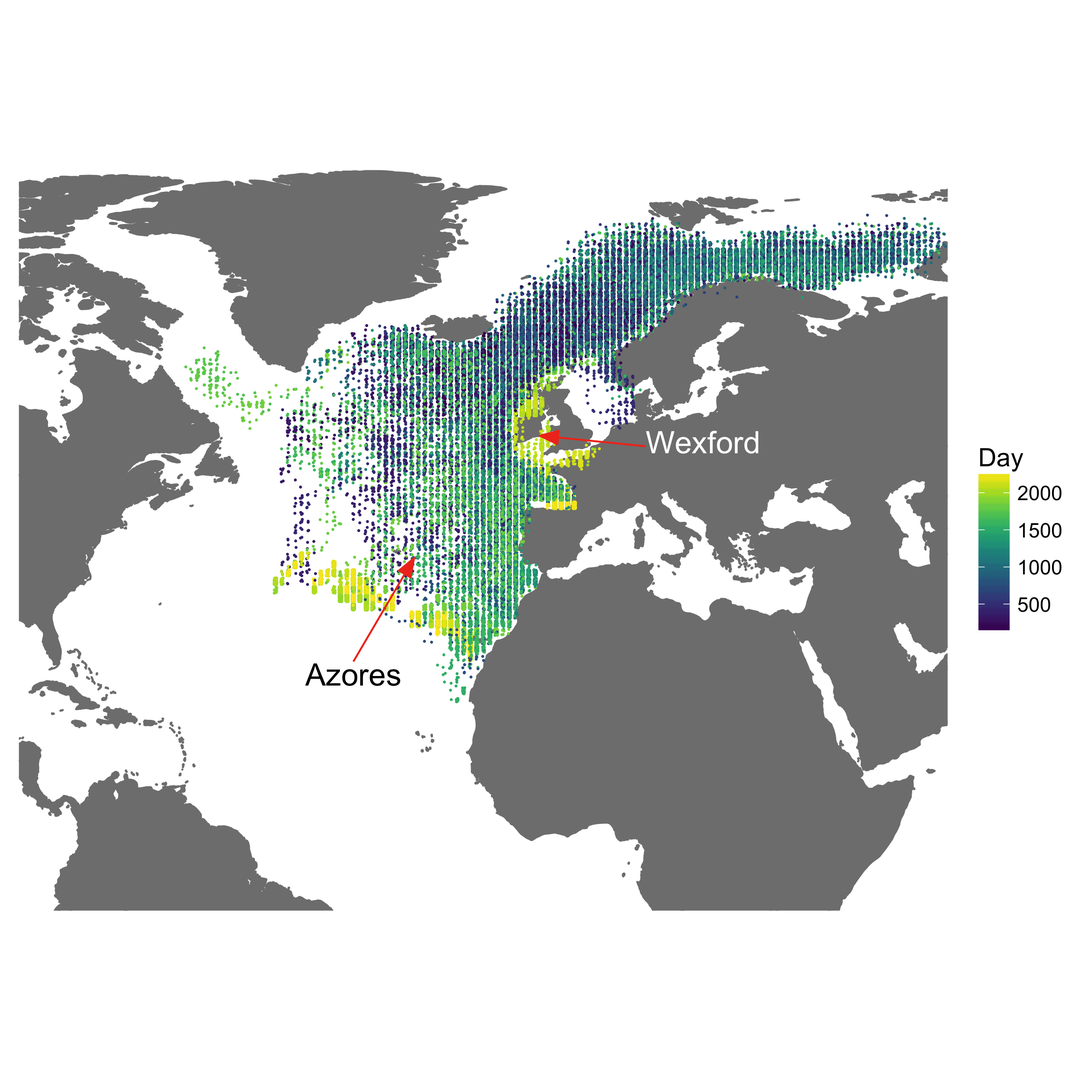
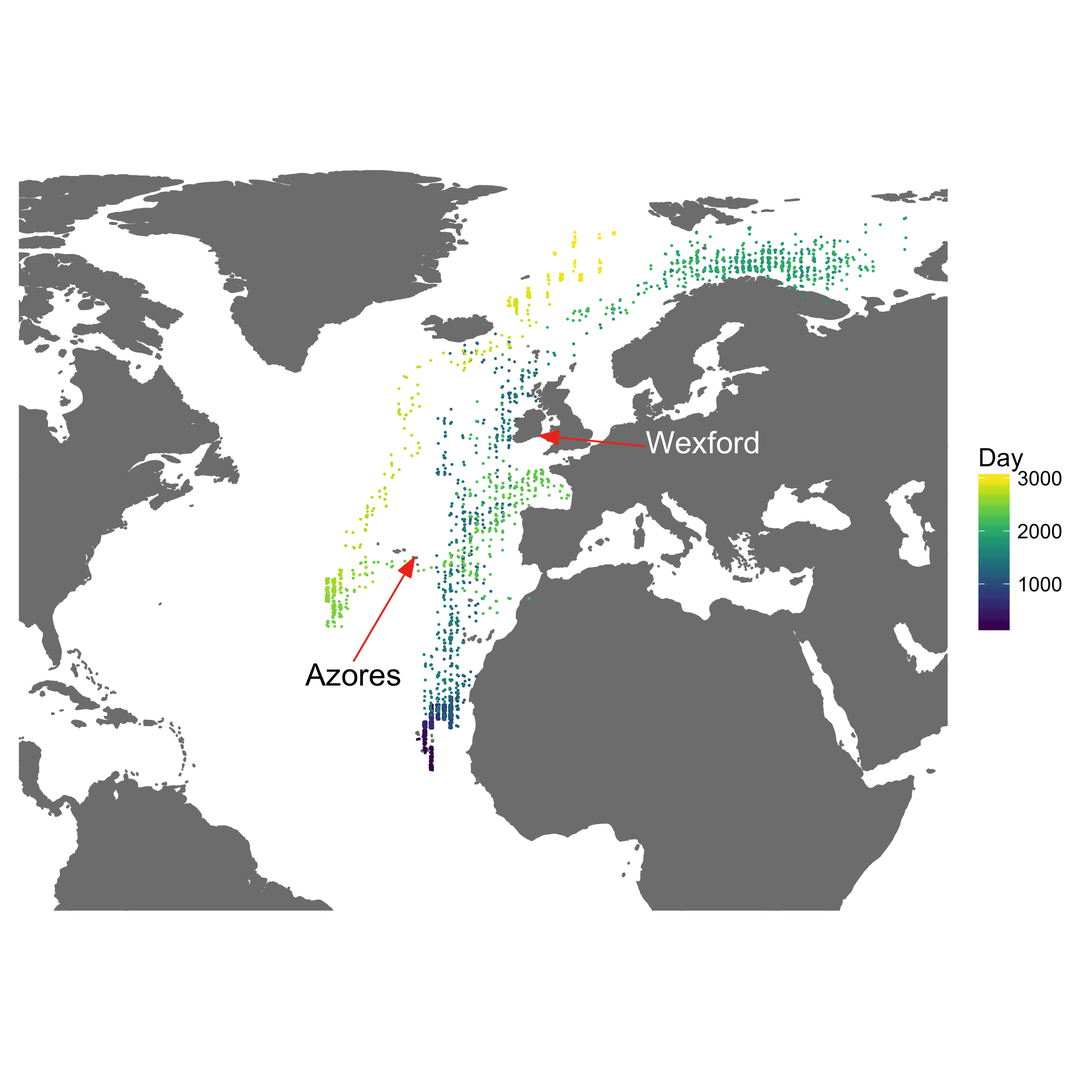
Edits to manuscript and cover letter

Changed region(s): [[0.2497, 0.1873, 0.8739, 0.7179], [0.9052, 0.437, 0.9988, 0.5618], [0.1873, 0.3121, 0.2497, 0.3745]]

diff --git a/manuscript/revision/blue-whale-ms-v2.tex b/manuscript/revision/blue-whale-ms-v2.tex
@@ -62,10 +62,10 @@
 % implications - 2-3 sentences. Results in context, how has the paper moved the field forward
 
 \raggedright
-
+% Need to edit
 \paragraph{Understanding animal movements is crucial for effective conservation, especially as species ranges shift due to climate change\cite{runge2014conserving,robinson2009travelling}. 
 Animal tissues housed in museum collections provide biochemical records of behaviour that can be used to reconstruct individual-level movements over long timescales and under historical climatic and ecological conditions\cite{newsome2010using}. 
-Here we combine stable isotope analyses of baleen with novel agent-based simulation models, to reconstruct the movements of an iconic blue whale (\textit{Balaenoptera musculus}) that stranded off Ireland in 1891 and is now on display at the Natural History Museum, London (NHM). 
+Here we combine stable isotope analyses of baleen with novel agent-based simulation models, to reconstruct the movements of an iconic blue whale (\textit{Balaenoptera musculus}) that stranded off Ireland in 1891 and is now on display at the Natural History Museum, London. 
 We identify two distinct phases in the whale's behaviour: repeated annual north-south migrations in sub-Arctic waters, and residency in subtropical waters. 
 Subtropical residency is associated with isotopic signatures consistent with pregnancy and lactation in the year before the whale's death. 
 These results supply the first quantitative multi-year records of historical migrations in individual blue whales, and suggest that blue whale residency and movement patterns in the North Atlantic have remained similar for hundreds of years, despite changing human pressures in the region. 
@@ -85,9 +85,10 @@ Despite blue whale hunting being banned for over 50 years, blue whales are still
 Conservation efforts are hampered by the scarcity of detailed data on the distribution, behaviour and ecology of blue whales, both for historical and present-day populations. 
 Current methods for tracking large whales include satellite tracking, radio tagging, aerial photography, passive acoustic monitoring, and sightings records\cite{borger15,mcdonald2006biogeographic,bailey2009behavioural,mate2007evolution,silva2013north}. 
 These methods are adding vital behavioural data to our understanding of whale movements, however, they are often expensive, limited to short-term studies on few individuals\cite{bailey2009behavioural,best2015tag,mate2007evolution}, and may influence whale behaviour\cite{walker2012review}. 
-Intrinsic biogeochemical tags provide an alternative technique, where the chemical compositions of animal tissues are compared to spatially referenced models of chemical variation across the species' range\cite{hobson1999tracing,hobson2008tracking}). 
-Stable isotope-based geolocation has been used to interpret whale ecology \cite{hobson1998stable,ryan2013stable,eisenmann2016isotopic}. 
-Here we apply this method to baleen from the NHM's blue whale.
+Stable isotope analyses provide an alternative technique\cite{west2006stable}. 
+We can use the isotopic compositions of whale tissues to reconstruct their movement patterns, by comparing them to spatially referenced models of isotopic variation across the species' range\cite{hobson1999tracing,hobson2008tracking,eisenmann2016isotopic}. 
+%line 57,
+These methods can be applied to large numbers of individuals, but as proof of concept, here we apply this method to baleen from the Natural History Museum (NHM) London's blue whale `Hope'.
 
 %Points here about movement patterns, interactions with human use of oceans, tourism etc
 % Build on lack of information about movements before ,modern use of Atlantic, and lack of information about juvenile behaviour.
@@ -95,11 +96,15 @@ Here we apply this method to baleen from the NHM's blue whale.
 
  
 Baleen is formed of plates of keratin and is used by mysticete whales to filter feed. 
-It is ideal for stable isotope studies because keratin grows continuously through an individual's life, and once laid down it is metabolically inert\cite{best1996stable}. 
-
+It is ideal for stable isotope studies because keratin grows continuously through an individual's life (although it is worn away at the tips over time, so rarely records an individual's entire lifespan), and once laid down it is metabolically inert\cite{best1996stable}. 
+Blue whales feed mainly on krill (Euphausiacea), small crustaceans that feed on phytoplankton.
+Thus the stable isotope compositions of keratin at a given point in the baleen will reflect the stable isotope compositions of the krill it was feeding on around two weeks prior to that time point (two weeks is required for the carbon and nitrogen to be assimilated and converted into tissues). %REF???
+Baleen stable isotopes have long been used in this way /.... % finish
 %Refs to support long history of inferring movement from baleen isotopes.
 
-We sampled keratin from the blue whale's baleen plate at 1cm intervals, perpendicular to the direction of growth, and used continuous-flow isotope ratio mass spectrometry to determine the isotopic compositions of carbon and nitrogen (expressed as $\delta^{13}$C and $\delta^{15}$N values). 
+We sampled keratin from the blue whale's baleen plate at 1cm intervals for 100cm, perpendicular to the direction of growth, and used continuous-flow isotope ratio mass spectrometry to determine the isotopic compositions of carbon and nitrogen. 
+Note that carbon and nitrogen isotopes are expressed as $\delta^{13}$C and $\delta^{15}$N values, i.e. relative to a standard and as ratios of the rare ($^{13}$C, $^{15}$N) to common ($^{12}$C, $^{14}$N) isotope\cite{west2006stable}.
+
 Given the date of stranding (25th March 1891), and estimated baleen growth rates of 13.5cm $y^{-1}$ (see Supplementary Methods), we reconstructed a timeline for $\delta^{13}$C and $\delta^{15}$N fluctuations in the baleen over the seven full years of the whale's life (early 1884 - spring 1891). 
 The $\delta^{13}$C and $\delta^{15}$N profiles show two distinct phases in the whale's behaviour. 
 Throughout the record, $\delta^{15}$N values record regular cyclical fluctuations, with a mean spacing of 13.5cm, assumed to represent annual periodicity (see Supplementary Methods).  
@@ -114,12 +119,13 @@ The final three months of the record show a continued fall in $\delta^{13}$C val
 \begin{figure}
   \centering
   \includegraphics[width = \linewidth]{figures/Figure-1-raw-dC-dN-data.png}
-  \caption{Variation in $\delta^{13}$C (black circles, left y-axis) and $\delta^{15}$N (grey circles, right y-axis) longitudinally through the baleen plate (n = 77 samples from a single baleen plate for both isotopes) of the NHM blue whale exhibits strong annual periodicity and cross-correlation (Figs. S1 and S2) in both isotopes as well as a change in the mean and magnitude of the cycles during 1889 (approximately at sample 30cm). Approximate relationship to years assuming a growth rate of 13.5 cm y$^{-1}$ is shown on the upper x-axis, and year boundaries are indicated by vertical dotted grey lines.}
+  \caption{Variation in stable isotope values in the NHM blue whale, expressed as $\delta^{13}$C (black circles, left y-axis) and $\delta^{15}$N (grey circles, right y-axis). Samples were taken longitudinally through the baleen plate (n = XX samples from a single baleen plate for both isotopes) of the NHM blue whale exhibits strong annual periodicity and cross-correlation (Figs. S1 and S2) in both isotopes as well as a change in the mean and magnitude of the cycles during 1889 (approximately at sample 30cm). Approximate relationship to years assuming a growth rate of 13.5 cm y$^{-1}$ is shown on the upper x-axis, and year boundaries are indicated by vertical dotted grey lines.}
   \label{fig1}
 \end{figure}
 
+% Krill has a very similar isotopic composition to phytoplankton
 
-Relating marine animal tissue isotopic compositions to likely locations is complicated by both a lack of spatial reference values, and because the isotopic composition of phytoplankton at the base of marine food webs varies in both space and time. 
+Relating marine animal tissue isotopic compositions to likely locations is complicated by both a lack of spatial reference values, and because the isotopic composition of phytoplankton at the base of marine food webs varies in both space and time. %line 82
 We approach these problems using newly developed, temporally dynamic models of $\delta^{13}$C values in the global ocean\cite{magozzi2017using} (Fig. S3), coupled to an agent-based model of whale movements (see Supplementary Methods; Table S1; Fig. S5) to simulate time series of $\delta^{13}$C values expected under differing movement behaviours and in differing parts of the known geographic range of blue whales. 
 We then compare simulated profiles (Figs. \ref{fig2}, \ref{fig3} and Fig. S4) with the measured isotopic profile of the blue whale's baleen (Fig. \ref{fig1}) to identify the most likely movement history.
 We assume continued ingestion of new protein throughout the year. 
@@ -158,6 +164,7 @@ Best fitting models predict juvenile residency in the Cape Verde region in behav
 Behavioural phase 2 is best simulated by seasonal migrations between summer foraging in northern areas in the Norwegian Sea/Barents Sea/Iceland region, and winter foraging in a broad region between the UK and sub-tropical waters. 
 Best fitting models in general predicted a greater latitudinal foraging range, and foraging in more northerly waters (Supplementary materials Fig. S7 [boxplots and kernel density plots]).
 
+line 112 - 122 para
 The last 500 days of the whale's life are difficult to simulate. 
 Beginning in the winter of 1889/1890, the observed $\delta^{13}$C profile is relatively depleted, and remains constant for approximately six months, before increasing rapidly in the winter of 1890/1891. 
 Depleted $\delta^{13}$C values are found in northern waters that show large temporal fluctuations in $\delta^{13}$Cplk values [fig SX residency plot], and the observed values cannot be simulated purely from movements within the known geographic range.
@@ -174,19 +181,20 @@ The proposed timescale of pregnancy around early spring 1889, birth in spring 18
 %Kernel density plot gives a visualization of proportional amount of time we infer the whale might have spent in each region
  
 Conventional wisdom suggests that baleen whales migrate each year from feeding grounds near the poles in summer, to overwintering and breeding grounds nearer the equator\cite{corkeron1999baleen,lockyer1981migration}. 
-However, a growing body of evidence suggests that not all whales migrate to subtropical waters each year, with some remaining at high latitudes year round\cite{mcdonald2006biogeographic}. 
+However, a growing body of evidence suggests that not all whales migrate to subtropical waters each year, with some remaining at high latitudes year round\cite{mcdonald2006biogeographic}. %line 127
 Our results support this conclusion. 
-Interestingly, there is still a resident population of blue whales in the regions indicated by our model, and females still breed in the subtropical waters near the Azores\cite{reilly2008balaenoptera}. 
+Interestingly, there is still a resident%line 128
+ population of blue whales in the regions indicated by our model, and females still breed in the subtropical waters near the Azores\cite{reilly2008balaenoptera}. 
 Whaling was an intense pressure for blue whales during the period we are analysing. 
 Before whaling in the North Atlantic began in 1868\cite{reilly2008balaenoptera}, there were 10,000-15,000 blue whales in the region\cite{sigurjonsson1995life}. 
 In the early 20th century, fisheries moved outside the area because stocks were so depleted\cite{reilly2008balaenoptera}; during this period over 12,000 blue whales were landed\cite{sigurjonsson1995life}. 
 The NHM blue whale thus represents an individual from a species at the brink of extinction.
-Our data suggest that the spatial ecology of blue whales in the North Atlantic has remained similar for more than 100 years, despite dramatic changes in anthropogenic pressures.
+Our data suggest that the spatial ecology of blue whales in the North Atlantic has remained similar for more than 100 years, despite dramatic changes in anthropogenic pressures. % line 137 and 139
 
-This is the first quantitative evidence of historical individual-level movement behaviours in blue whales. 
+This is the first quantitative evidence of historical individual-level movement behaviours in blue whales. %line 140-141
 Our novel simulation modeling removes a long-standing limitation in stable isotope ecology, and can be applied to stable isotope records from any incrementally-grown tissue to estimate most likely individual movement behaviours over multiple years. 
 Such techniques can also be applied to extinct species behaviours and used to understand how populations were affected by past pressures such as hunting, and present-day pressures such as global change. 
-Finally, our results highlight that museums represent a vast, mostly untapped, source of individual-level spatial ecology information.
+Finally, our results highlight that museums represent a vast, mostly untapped, source of individual-level spatial ecology information. %line 147-149
 
 \section{Methods}
 %<3000 words

diff --git a/manuscript/revision/response.md b/manuscript/revision/response.md
@@ -1,4 +1,4 @@
-**RE: Nature submission 2017-06-07324A**
+# RE: Nature submission 2017-06-07324A
 
 Dear Editors,
 
@@ -6,8 +6,10 @@ Our paper was reviewed at Nature and was not accepted for publication. However, 
 
 We respond to their points below. To improve the clarity of this document we have included our responses to the referees comments in italics.
 
-**Important note to the referees**. During the revisions of this manuscript, which included substantial extra analysis, we discovered an error in our original results. Essentially, the baleen samples had been labelled in the reverse direction to what we expected. The values for all the stable isotope measures remain the same but the timeline is reversed (this occurred due to a misunderstanding with the masters student who ran to original mass spec analyses and subsequently finished her masters project and moved away). We regret this error, but these things happen, and we are relieved that we noticed the error before publication. Interestingly, when we added the extra data to the end of our time series, we find our overall results do not change from our previous manuscript. We communicated with Editor in Chief Patrick Goymer about whether it was still appropriate to cascade our reviews with the paper given this error, and he said this was fine as long as we made this very clear in our response letter. This note is to alert the reveiwers that the results graphs will look different to the original version, though our conclusions have not changed qualitatively.
+**Important note to the referees**. During the revisions of this manuscript, which included substantial extra analysis, we discovered an error in our original results. Essentially, the baleen samples had been labeled in the reverse direction to what we expected. The values for all the stable isotope measures remain the same but the timeline is reversed (this occurred due to a misunderstanding with the masters student who ran to original mass spec analyses and subsequently finished her masters project and moved away). We regret this error, but these things happen, and we are relieved that we noticed the error before publication. Interestingly, when we added the extra data to the end of our time series, we find our overall results do not change from our previous manuscript. We communicated with Editor in Chief Patrick Goymer about whether it was still appropriate to cascade our reviews with the paper given this error, and he said this was fine as long as we made this very clear in our response letter. This note is to alert the referees that the results graphs will look different to the original version, though our conclusions have not changed qualitatively.
 
+
+## Original referee comments
 
 ## Referee 1
 ### Key results, Originality and Significance
@@ -18,13 +20,22 @@ First: The authors used a mix between a temporal isoscape (measured POM over tim
 
 Second: the baleen isotope records themselves are interesting as there are very few blue whale baleen records published (this is the second one ever to my knowledge, and the first was also published this year). The isotopes also appear to show a mixture of behaviours, such as migration AND permanent residence in a single individual. Such mix of behaviour is rare in the literature, and still debated. Further, the residence appears consistent with pregnancy/lactation, which is even more uncommon in whale baleen literature as far as I know. For these reasons, I think the isotope records will be very interesting to other researchers in the field.
 
-*We thank the referee for their positive comments about our paper.*
+> We thank the referee for their positive comments about our paper.
 
 ### Data and Methodology: Validity
 
 I am satisfied with the SIA methods and results, but I have some slight comments. While I have no experience with modelling, I noted that there was no mention of isotopic fractionation in the model. As far as I know, blue whale feed on zooplankton and small fish, not directly on phytoplankton. If I am correct, the comparison of the baleen records to the modelled isotopes may be incorrect, as it should be affected by trophic shifts. I suppose it depends on whether the model was used for a direct pattern comparison, or if the values modelled and the baleen values were compared to each other. 
-Comparable literature in other species (seals, humans) appear to confirm the pregnancy interpretation, although I’m less convinced by the lactation signal as it seems too delayed in time. This could possibly be checked using hormones, although that is also a very novel field. See the following literature on baleen hormones: Hunt 2016 “Longitudinal progesterone profiles in baleen from female North Atlantic right whales (Eubalaena glacialis) match known calving history”; Hunt 2014 “Baleen hormones: a novel tool for retrospective assessment of stress and reproduction in bowhead whales (Balaena mysticetus)”. These are older samples (20 yrs or so) but not as old as this whale so may be loss of hormone signal over time.
+
+> The referee is correct 
+
+* CLIVE how are we dealing with this???
+
+Comparable literature in other species (seals, humans) appear to confirm the pregnancy interpretation, although I'm less convinced by the lactation signal as it seems too delayed in time. This could possibly be checked using hormones, although that is also a very novel field. See the following literature on baleen hormones: Hunt 2016 “Longitudinal progesterone profiles in baleen from female North Atlantic right whales (Eubalaena glacialis) match known calving history”; Hunt 2014 “Baleen hormones: a novel tool for retrospective assessment of stress and reproduction in bowhead whales (Balaena mysticetus)”. These are older samples (20 yrs or so) but not as old as this whale so may be loss of hormone signal over time.
 I strongly believe this will not prohibit publication, as the results are still very interesting. It is very possible that I am misreading the delay in lactation signal.
+
+> Measuring hormone levels in the baleen would be a great addition to this work. We have colleagues in the US who are planning to extract hormones from this baleen. Unfortunately these results have been delayed now for over a year due to US permitting issues (thanks Trump!) and the CITES status of blue whales. But we agree that this would be really interesting, if the hormone signals remain over time.
+
+* LACTATION SIGNAL - comments?
 
 ### Appropriate use of statistics:
 
@@ -32,36 +43,84 @@ The statistical analyses seem sound and appropriate, although the use of Fourier
 
 There are no error bars or replication of samples, but this is typical of stable isotopes.
 
+* Do we need a comment on this?
+
 ### Suggested improvements/ References:
 
-Some basic stable isotope knowledge, as well as blue whale feeding ecology should probably be mentioned (ie krill/fish feeding, no fasting) or trophic influence on isotopic signal compared to model POM values. Adding sentence on feeding ecology at beginning, and explaining in model why POM is a good proxy for zooplankton should be enough. For example: Line 65: a reference such as West et al, 2006 “Stable isotopes as one of Nature’s ecological records” relevant to SIA basics. Line 82: reference again with basic SIA shifts in marine food webs? Possibly McMahon et al, 2015 “Millennial Scale plankton regime shifts in the subtropical North Pacific Ocean”
+Some basic stable isotope knowledge, as well as blue whale feeding ecology should probably be mentioned (ie krill/fish feeding, no fasting) or trophic influence on isotopic signal compared to model POM values. Adding sentence on feeding ecology at beginning, and explaining in model why POM is a good proxy for zooplankton should be enough. For example: Line 65: a reference such as West et al, 2006 “Stable isotopes as one of Nature’s ecological records” relevant to SIA basics. Line 82: reference again with basic SIA shifts in marine food webs? Possibly McMahon et al, 2015 “Millennial Scale plankton regime shifts in the subtropical North Pacific Ocean”.
+
+> We have added this as suggested
+
+
+> 
+
+* Add it!
+
 The reported baleen growth rates fit the literature, but I believe it may be worth mentioning in Line 61 that baleen gets worn down over time, and that the records are not full life spans. 
+
+> We have clarified this in the text at line XXX as follows: "It is ideal for stable isotope studies because keratin grows continuously through an individual's life (although it is worn away at the tips over time, so rarely records an individual's entire lifespan), and once laid down it is metabolically inert."
+
 According to the model, d15N is relatively higher in the arctic during summer than the Atlantic in winter. In the profile, the winter values in phase one are still comparatively higher than the summer values. Would you be able to explain? I am mostly curious, but it may reflect difficulties with reading the model from a figure.
-While the d13C increase fits the sea lion theory, the drop in d13C seen after/at birth happens too quick (late 1889) in the whale to fit the d15N rise consistent with lactation (Almost 6 months late according to timeline, past mid 1890). Human analyses in hair showed a decrease in d15N (1%o) during pregnancy, which can be seen in the baleen if we take the d13C drop as birth time and early 1889 as pregnancy time (see Fuller et al 2004 “Nitrogen Balance and 15N, why you’re not what you eat during pregnancy”). While it’s not a study conducted in marine mammals, it’s a further indication that the birth time may indeed be in late 1889, or at least that the lactation peak is very late. Could indicate a slowing down in baleen growth, or something else? Could be worth checking with hormonal analyses (see above). Another possibility lies in the location of baleen analyses. Since the methods are not clear on that point, can you confirm that the samples were taken past the gum
-line? Dried skin/gum could have affected the isotopic signals if samples were taken outside of the erupted zone. Could it be why the isotopic signals are so different in phase two? Busquet Vass paper shows no difference in 13C between skin and baleen so unlikely, but worth confirming.
+
+> Explain
+
+While the d13C increase fits the sea lion theory, the drop in d13C seen after/at birth happens too quick (late 1889) in the whale to fit the d15N rise consistent with lactation (Almost 6 months late according to timeline, past mid 1890). Human analyses in hair showed a decrease in d15N (1%o) during pregnancy, which can be seen in the baleen if we take the d13C drop as birth time and early 1889 as pregnancy time (see Fuller et al 2004 “Nitrogen Balance and 15N, why you're not what you eat during pregnancy”). While it's not a study conducted in marine mammals, it's a further indication that the birth time may indeed be in late 1889, or at least that the lactation peak is very late. Could indicate a slowing down in baleen growth, or something else? Could be worth checking with hormonal analyses (see above). 
+
+> Explain
+
+Another possibility lies in the location of baleen analyses. Since the methods are not clear on that point, can you confirm that the samples were taken past the gum line? Dried skin/gum could have affected the isotopic signals if samples were taken outside of the erupted zone. Could it be why the isotopic signals are so different in phase two? Busquet Vass paper shows no difference in 13C between skin and baleen so unlikely, but worth confirming.
+
+> Check
+
 The final sample interpretation of a return to cyclicity is very open to discussion, as a single point is too weak to be a guarantee. I will concede that the isotopes are consistent with past migratory values, but may be worth softening the comment (line 109-110)?
+
+> OK
+
 When describing the different behaviours, such as whales staying in high latitudes instead of migrating, also talk about the ones staying at low lat (isotope blue whale ref. Busquet-Vass) since it is more relevant to your own isotopic interpretation (line 127).
+
+> Alright
 
 Typos etc:
 
 1. Abstract
 Line 20: Should not have abbreviation. Move to line 58 where it is introduced next.
+
+> Fixed
+
 2. Article main text
 Line 56: “)” extraneous bracket
+
+> Fixed
+
 3. Supplementary Data
 Page 2, line 1: “)” extraneous bracket after “behavioural phase 2”
+
+> Fixed
 
 ### Clarity and Context:
 
 The manuscript was clear, but lacked some information on basic isotope literature, and blue whale ecology. While the ecology side is less important, some information on how isotope analyses work could be beneficial to the greater public. I understand that the limited space available prevents a thorough explanation of SIA, but there is no explanation of the general differences between d13C and d15N (geographical versus trophic information). I believe a quick sentence describing the two tracers in line 57 (for example) could help. 
-The abstract was clear and direct, providing a good summary of the paper’s approach and conclusions.
+
+> We have added a brief comment on what blue whales eat on line XXX:. 
+
+> We have also added some simpler references to stable isotopes. For example. We also calrify the units used as this often trips up new users: lin XXX "Note that carbon and nitrogen isotopes are expressed as $\delta^{13}$C and $\delta^{15}$N values, i.e. relative to a standard and as ratios of the rare ($^{13}$C, $^{15}$N) to common ($^{12}$C, $^{14}$N) isotope (West et al 2006)."
+"
+
+The abstract was clear and direct, providing a good summary of the paper's approach and conclusions.
 The conclusion is clear and justified, although the claim of first quantitative evidence of movement behaviours in blue whale seems unlikely given the slightly older paper from Busquets-Vass also reporting blue whale baleen isotopes. 
 
+> Clarify
 
 
-## Referee 2 :
+## Referee 2:
 
-I appreciated the opportunity to review the submitted manuscript “Reconstructing the last known movements of one of Nature’s giants”. 
+> If we are interpreting Referee 2's comments correctly (see below), we think they mostly revolve around issues about the novelty of the study, and overstatement of results based on one individual. We completely see the points the referee is making. Some of this was related to the difficulties of writing in the shorthand Nature style - we have clearly been a little too casual in some of our wording. In other cases we haven't been clear that the selling point of this method is that it can easily be applied to hundreds of individuals at relatively low cost. Here we test the methods on one individual, but the real value in the method is its broader applicability. We have tried to clarify this where possible and have also toned down/removed/clarified a lot of our previous statements about the novelty of the study and interpretations of the results. We explain our changes in more detail below.
+
+
+
+line XXX: These methods can be applied to large numbers of individuals, but as proof of concept, here we apply this method to baleen from the Natural History Museum (NHM) London's blue whale `Hope'.
+
+I appreciated the opportunity to review the submitted manuscript “Reconstructing the last known movements of one of Nature's giants”. 
 
 The authors use stable isotope analysis (SIA) of baleen of a single blue whale, stranded in 1891, to reconstruct a time series of ~6 years. This isotopic reconstruction represents the integrated isotopic ‘signal’ the whale encountered as it moved, allowing reconstruction of past movements. The authors paired these isotopic data with an ‘isoscape’ of values in the North Atlantic, as well as a model that simulated possible whale migration patterns over the isoscape. By combining these two approaches the authors suggest north-south movement for several years, followed by residency in subtropical waters. The authors claim that the similarity of these movements with modern blue whales suggest that movement patterns of blue whales in the North Atlantic have been similar for hundreds of years, despite anthropogenic pressures (e.g., whaling). 
 
@@ -71,53 +130,95 @@ The Abstract and text explicitly or implicitly state the novelty of the followin
 
 The study does not provide "multi-year records of...individual blue whales", but of one blue whale. The generalization of the results from one individual to the entire population is a central issue to the current paper.
 
+> Agreed
+
 There are also issues with the movement interpretations for this one whale; the most important is that the authors make strong conclusions re: movement when the measured SIA values match those predicted by their model, but then employ a physiological argument for 'phase 2' (pregnancy and lactation) when there is a mismatch between measured data and the model. Of course, this approach makes the assumption that physiology can override the environmental signal, which calls into question any inferred movement patterns throughout the time series.
+
+> OK
 
 A main conclusion of the paper, that blue whales then migrated as they do now, simply cannot be made from one whale. I appreciate the difficulty of obtaining specimens like the one here, which makes larger sample sizes difficult to obtain. That limitation does make n = 1 studies reasonable, worthwhile, and interesting; it is my opinion that the results here, both for insights into the movements of this whale and for the methodology employed (combining a movement/isoscape model with measured values), should be published. However, n = 1 studies cannot be used to generalize the movements of an entire wild, historical population. 
 
+> OK keep your hair on
+
 This paper is also not the first to use historical data to reconstruct past movements of blue whales; see for example Reeves et al (2004) that addresses the same question with whale landings data.
+
+> OK
 
 As the authors cite, the reconstruction of whale movements using baleen is well established in the literature; see papers by Best, Schell, Hobson, and others for similar analyses on Bowhead, Right, and other baleen whales.
 
+> OK
+
 The penultimate sentence of the abstract and final sentence of the paper suggest that using archived museum specimens is a novel concept in marine ecology. The use of archived museum specimens is not new or overlooked; two immediate examples (of many) include Vo et al (2010) using century-old seabirds and Yeakel et al (2009) on the famous lions of Tsavo. There are papers written that point to the value of using archived collections for data (e.g. Lister 2011), and the approach is common enough that there is a methods paper written on the preparation of archived specimens for SIA (Edwards et al 2002).
+
+> OK
 
 The “novel” movement model using SIA is indeed an improvement over many past studies using SIA to reconstruct animal movements. However, there are some studies have employed similar methods (e.g. Flockhart et al 2013 in Monarch butterflies).
 
+> OK
+
 In short, the authors applied a common tool in an established way to a single historical specimen of a rare species (though their agent-based movement model is a significant improvement over similar studies). Their model matched their measurements sometimes, but not always, leading to a movement-based interpretation for one period and a physiology-based interpretation (pregnancy and lactation) for the second period. 
+
+>
 
 Perhaps most importantly, if the results and conclusions are considered completely correct, the authors still provide the movements of only a single whale. The conclusion that historical blue whale movements were the same as today’s based on a single individual is simply not appropriate.
 
+>
+
 By not overextending their results and by addressing a few issues, I do think this could be an interesting and valuable addition to the isotope and marine mammal literature.
+
+> We hope our edits have addressed these issues.
 
 See below for additional, specific comments.
 
 Abstract: the inference of pregnancy and lactation seems more questionable than as it is stated here.
 
+>
+
 As mentioned above, the Abstract overextends the results (e.g., "migrations in blue whales" shouldnt be plural; "hundreds of years" which is not the timeline they present, etc). 
+
+>
 
 Intro: migratory species may be affected by climate change by modifying movements, but aren't necessarily 'vulnerable'. Some would argue that migratory species are the least vulnerable to climate change.
 
+>
+
 lines 51-52 criticize approaches that are limited to only a few individuals, but this paper provides information on only one individual.
+
+>
 
 Fig 1 is not very clear. There is no clear indication of the whales movement, and no isotope data on the Figure. I understand the isoscape is in the SM but this figure could be improved to provide better movement and/or isotope data.
 
+>
+
 The movement simulations in Fig 2 are also confusing. The SM clarifies but this Figure could show more. For example, the data matches the simulations...of what? The reader cannot tell if the differences in simulations are due to isotopic variability or different movement scenarios. Perhaps the 4 movement scenarios shown in SM could be 4 different colors here. In that case, when the measured data match a given slope, peak, or trough, the reader can associate it with a geographic region.
+
+>
 
 lines 112-122. The conclusion of an isotopic reflection of pregnancy and lactation is stated rather strongly here given the evidence (the authors describe the inference as 'tentative' in the SM).
 
+>
+
 128: "resident" to where?
+
+>
 
 137: this point made extensively above....describes the overall "spatial ecology of blue whales in the North Atlantic" based on isotopic inferences over 6 years in a single whale.
 
+>
+
 139: Has it been demonstrated that whaling can actually modify movement patterns? Should be stated if so.
+
+>
 
 140-141: OK...but it is movement behavior in a single blue whale, and this has been done in larger sample sets of other baleen whales.
 
+>
+
 147-149. This sentence makes it seem like hardly anyone is using museum specimens for SIA or other chemical analyses, which simply isn't the case.
 
+>
 
+> We hope we have responded to all these comments appropriately. Please let us know if you require any further information,
 
-*We hope we have responded to all these comments appropriately. Please let us know if you require any further information,*
-
-*Clive Trueman, on behalf of the other authors.*
+> Clive Trueman, on behalf of the authors.
 
